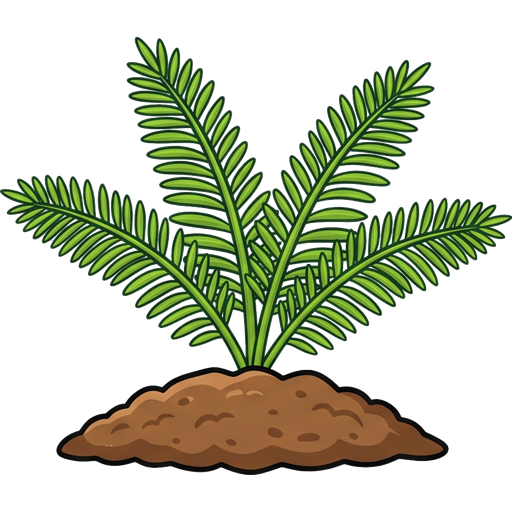
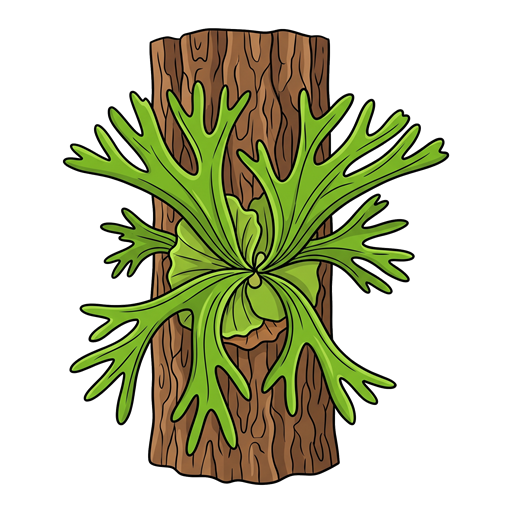
เพิ่มป้ายชื่อใต้รูป (อังกฤษ·ไทย) + แก้รูปเฟิร์นเป็นเกาะต้นไม้
- โชว์ชื่อพืช/สัตว์ใต้รูป เฉพาะเกมที่ไม่ใช่ทายชื่อ/สะกดคำ (auto-detect กันเฉลย)
- เปลี่ยน fern.png เป็นเฟิร์นเกาะต้นไม้ (staghorn) + เฉลย fern = On trees (ตรงหนังสือ+รูป)

diff --git a/practice/exam.html b/practice/exam.html
@@ -169,8 +169,9 @@
   .mitem.pic{padding:8px; min-height:0; background:#F7FBFF;}
   .mitem.pic .pv{width:100%; height:auto; aspect-ratio:1/1;}
   .mcol.pad{justify-content:center;}
-  .qtext .qpic{display:block; margin:2px auto 10px;}
+  .qtext .qpic{display:block; margin:2px auto 4px;}
   .qtext .qpic .pv{width:min(56vw,200px); height:min(56vw,200px);}
+  .qtext .qcap{display:block; margin:0 auto 10px; font-family:'Sarabun',sans-serif; font-weight:800; font-size:1.05rem; color:#3B7DE0; letter-spacing:.2px;}
   /* กล่องภาพพืช: รูปจริง (img) + SVG สำรอง */
   .pv{display:inline-block; line-height:0;}
   .pv img{width:100%; height:100%; object-fit:contain; display:block; border-radius:10px;}
@@ -773,7 +774,7 @@ const SUBJECTS = [
         {q:'พืชนี้อยู่ที่ไหน? (Where does it live?)', pic:'waterhyacinth', a:'In water', x:['On land','On trees']},
         {q:'พืชนี้อยู่ที่ไหน? (Where does it live?)', pic:'hydrilla',     a:'In water', x:['On land','On trees']},
         {q:'พืชนี้อยู่ที่ไหน? (Where does it live?)', pic:'orchid',       a:'On trees', x:['On land','In water']},
-        {q:'พืชนี้อยู่ที่ไหน? (Where does it live?)', pic:'fern',         a:'On land',  x:['In water','On trees']},
+        {q:'พืชนี้อยู่ที่ไหน? (Where does it live?)', pic:'fern',         a:'On trees', x:['On land','In water']},
         {q:'พืชนี้อยู่ที่ไหน? (Where does it live?)', pic:'staghornfern', a:'On trees', x:['On land','In water']},
       ]},
       { id:'plants-stem', name:'ลำต้นแข็งหรืออ่อน (woody/soft)', emoji:'🪵', desc:'Woody or soft stem · ดูรูปเลือกชนิดลำต้น (14 ข้อ)', color:'linear-gradient(135deg,#B5834F,#8B5A2B)', q:[
@@ -1427,7 +1428,15 @@ function renderQuestion(){
   document.getElementById('quizProg').textContent=`${exam.idx+1} / ${total}`;
   document.getElementById('pbarFill').style.width=((exam.idx)/total*100)+'%';
   document.getElementById('qnum').textContent=`ข้อ ${exam.idx+1}`;
-  const picHtml=(q.pic&&PLANTS[q.pic])?`<span class="qpic">${plantVisual(q.pic)}</span>`:'';
+  let picHtml='';
+  if(q.pic&&PLANTS[q.pic]){
+    const p=PLANTS[q.pic];
+    // โชว์ชื่อใต้รูป ยกเว้นเกมที่ต้องทายชื่อ/สะกดคำ (กันเฉลย)
+    const first=(p.en||'').split(/[\s\/]+/)[0];
+    const naming=(q.type==='fill'||q.type==='write'||q.type==='scramble')||(q.choices&&(q.choices.includes(p.en)||q.choices.includes(first)))||(q.correct===p.en);
+    const cap=(!naming&&p.en)?`<span class="qcap">${esc(p.en)}${p.th?' · '+esc(p.th):''}</span>`:'';
+    picHtml=`<span class="qpic">${plantVisual(q.pic)}</span>${cap}`;
+  }
   document.getElementById('qtext').innerHTML=picHtml+(q.big?`<span class="big">${q.big}</span>`:'')+q.q;
   const nb=document.getElementById('nextBtn');
   nb.textContent= exam.idx===total-1 ? 'ดูผลคะแนน ✓' : 'ข้อต่อไป →';